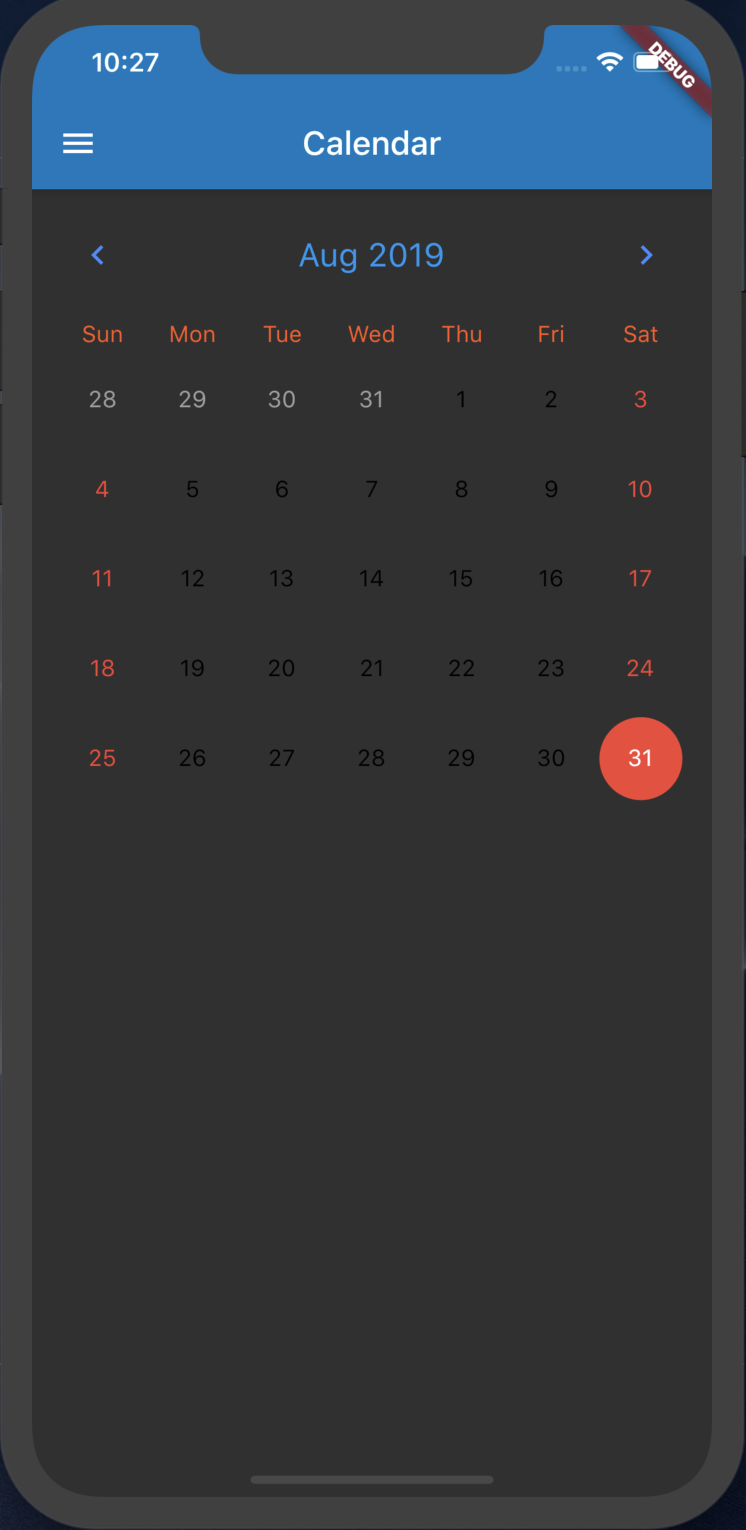
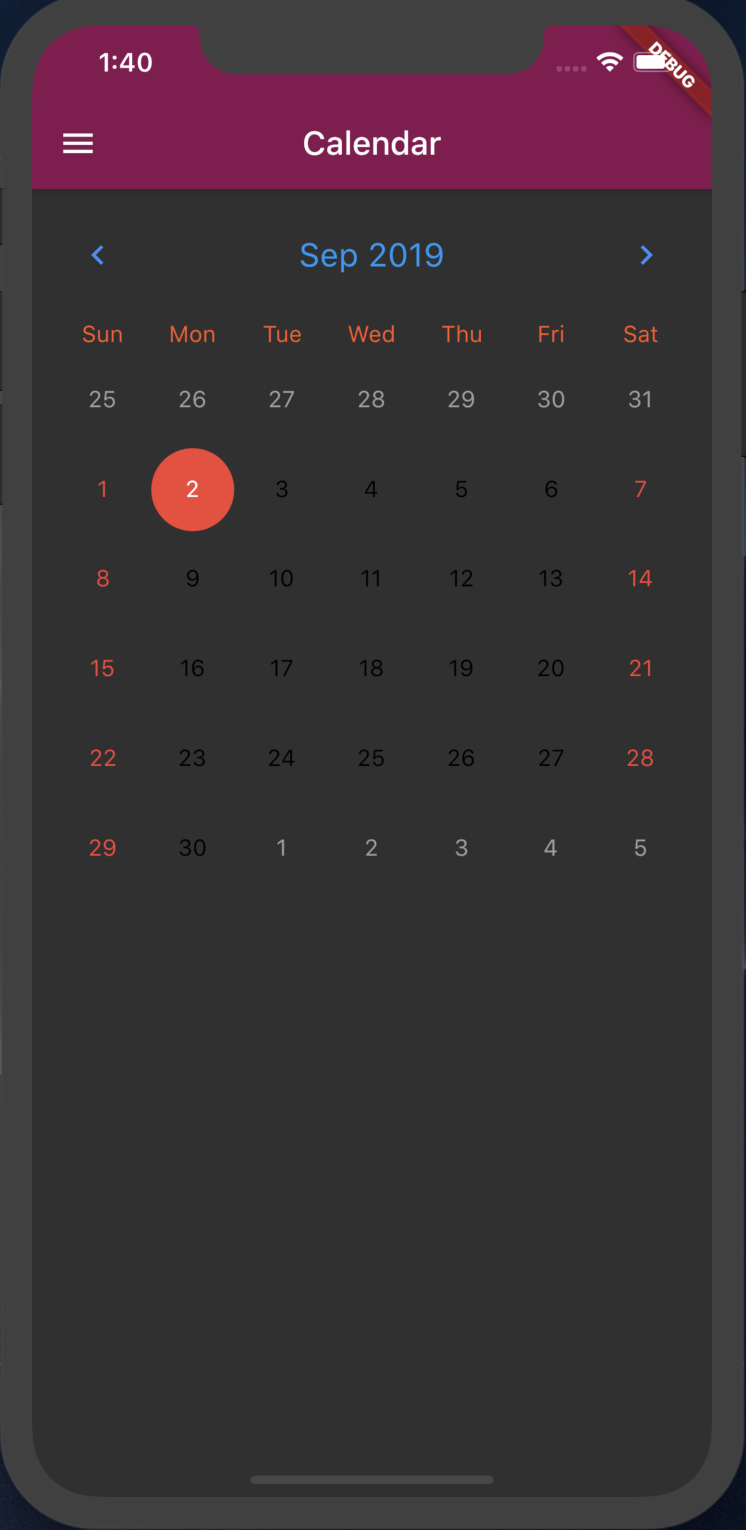
theme color changed

diff --git a/lib/widget/drawer.dart b/lib/widget/drawer.dart
@@ -15,57 +15,36 @@ class AppDrawer extends StatelessWidget {
             DrawerHeader(
               child: Text('Drawer Header'),
               decoration: BoxDecoration(
-                color: Colors.lightBlue[800],
+                color: Colors.pink[900],
               ),
             ),
             ListTile(
               title: Text('Home'),
               onTap: () {
-                // Update the state of the app
-                // ...
-                // Navigator.push(
-                //   context,
-                //   MaterialPageRoute(builder: (context) => SecondRoute()),
-                // );
                 Navigator.pushReplacementNamed(context, Routes.home);
-                // Then close the drawer
-                //Navigator.pop(context);
               },
             ),
             ListTile(
               title: Text('Charts'),
               onTap: () {
-                // Update the state of the app
-                // ...
-                // Then close the drawer
                 Navigator.pushReplacementNamed(context, Routes.charts);
-                print("Charts Tapped");
               },
             ),
             ListTile(
               title: Text('Timeline'),
               onTap: () {
-                // Update the state of the app
-                // ...
-                // Then close the drawer
                 Navigator.pushReplacementNamed(context, Routes.timeline);
               },
             ),
             ListTile(
               title: Text('Map'),
               onTap: () {
-                // Update the state of the app
-                // ...
-                // Then close the drawer
                 Navigator.pushReplacementNamed(context, Routes.map);
               },
             ),
             ListTile(
               title: Text('Calendar'),
               onTap: () {
-                // Update the state of the app
-                // ...
-                // Then close the drawer
                 Navigator.pushReplacementNamed(context, Routes.calendar);
               },
             ),

diff --git a/lib/main.dart b/lib/main.dart
@@ -18,8 +18,8 @@ class MyApp extends StatelessWidget {
       theme : ThemeData(
         // Define the default brightness and colors.
         brightness: Brightness.dark,
-        primaryColor: Colors.lightBlue[800],
-        accentColor: Colors.cyan[600],
+        primaryColor: Colors.pink[900],
+        accentColor: Colors.pink[600],
 
         // Define the default font family.
         fontFamily: 'Montserrat',
